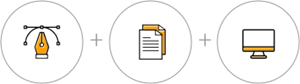
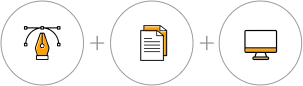
about 부분 수정

diff --git a/index.html b/index.html
@@ -99,22 +99,23 @@
 			</div>
 		</div>
 		<main role="main" class="yp_main_content">
-			<section id="about">
+			<section id="about" style="background-color: #fdf7ec; ">
 				<div class="container">
 					<div>
-					<h3 class="sect_title">
+					<h3 class="sect_title" style="margin-left: 5px">
 						<span>A</span>BOUT
 					</h3>
 					</div>
 					<div class="row">
-						<div class="col">
+						<div class="col-8" style="padding-right: 0px">
 							<p class="sect_title_des">얍은<br>어떤 <span>동아리</span>인가요?</p>
 							<div class="about_txt">
-								<p class="txt_color2">YAPP은 대학생들의 다양한 아이디어와 열정, 그리고 가능성을 바탕으로 <br class="hidden-xs">조그마한 변화일지라도 의미가 있는 일을 해나가고, 기존에 없던<br class="hidden-xs"> 새로운 가치를 만들기 위해 노력하는 대학생 연합 기업형 IT동아리입니다.</p>
+								<p class="txt_color2">YAPP은 대학생들의 다양한 아이디어와 열정, 그리고 가능성을 바탕으로 <br class="hidden-xs">조그마한 변화일지라도 의미가 있는 일을 해나가고, 기존에 없던 새로운 가치를 만들기 위해 노력하는 <br class="hidden-xs"> 대학생 연합 기업형 IT동아리입니다.</p>
 							</div>
 						</div>
-						<div class="col">
-							<img src="./YAPPWebPage/public/img/main/main_about01.jpg" alt="" class="center-block img-responsive">
+						<div class="col-2">
+							<img src="./YAPPWebPage/public/img/main/activity_icon.png" alt=""
+								 style="width: 406px; height: 112px">
 						</div>
 					</div>
 				</div>

diff --git a/YAPPWebPage/src/css/pc.css b/YAPPWebPage/src/css/pc.css
@@ -3,8 +3,18 @@
     margin-right: 163px;
 }
 
+.yp_main_content section:not(#introduction) {
+    padding-left: 12.9vw;
+}
+
+.sect_title {
+    font-size: 18px;
+    margin-bottom: 18px;
+}
+
 .about_txt>p {
-    font-size: 14px;
+    font-size: 18px;
+    line-height: 38px;
 }
 
 .activity-description-container {
